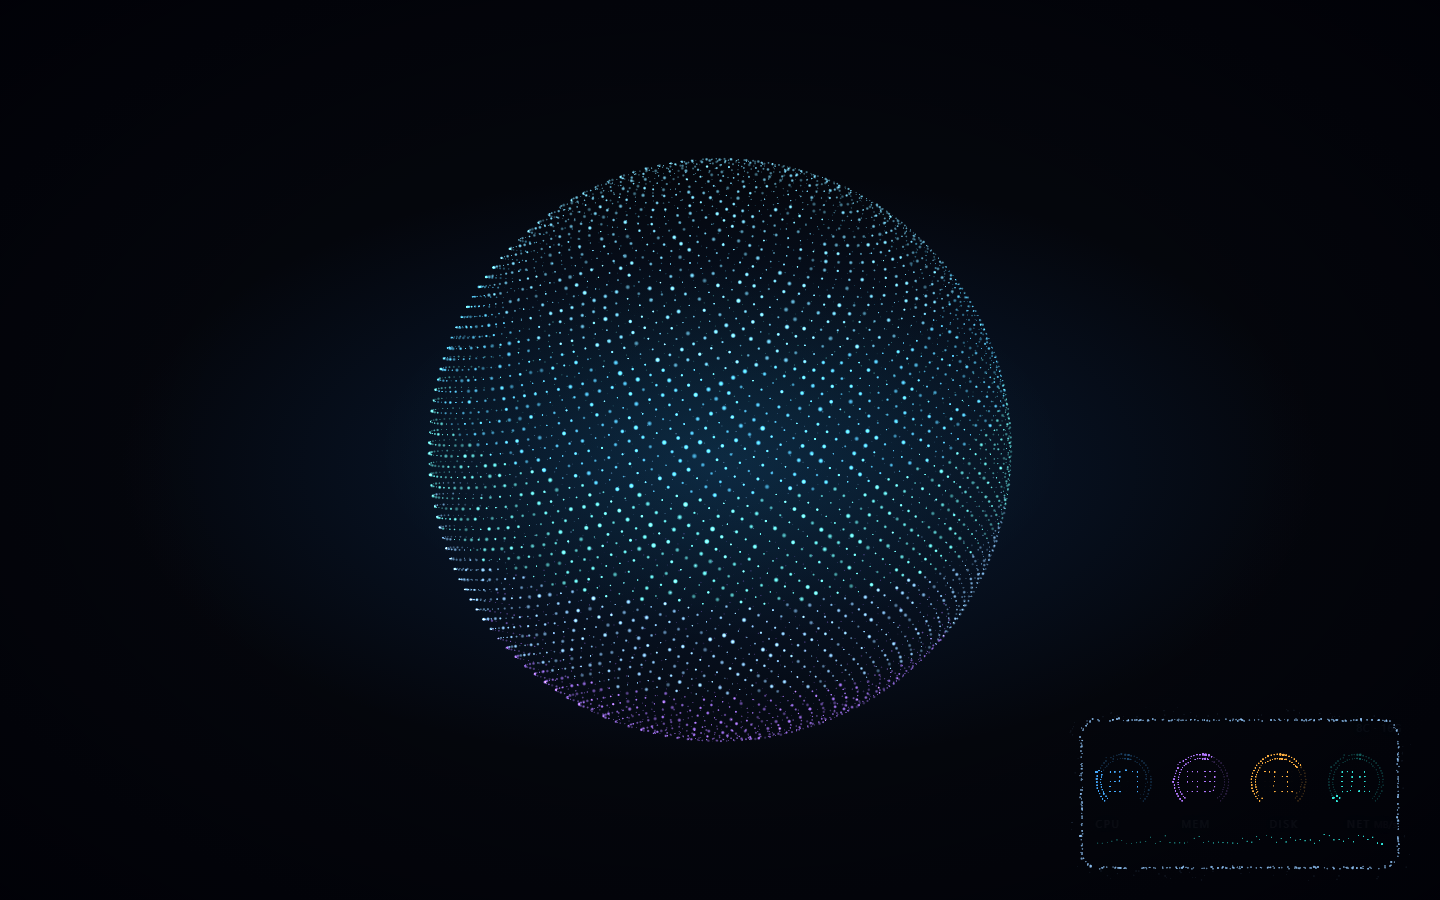
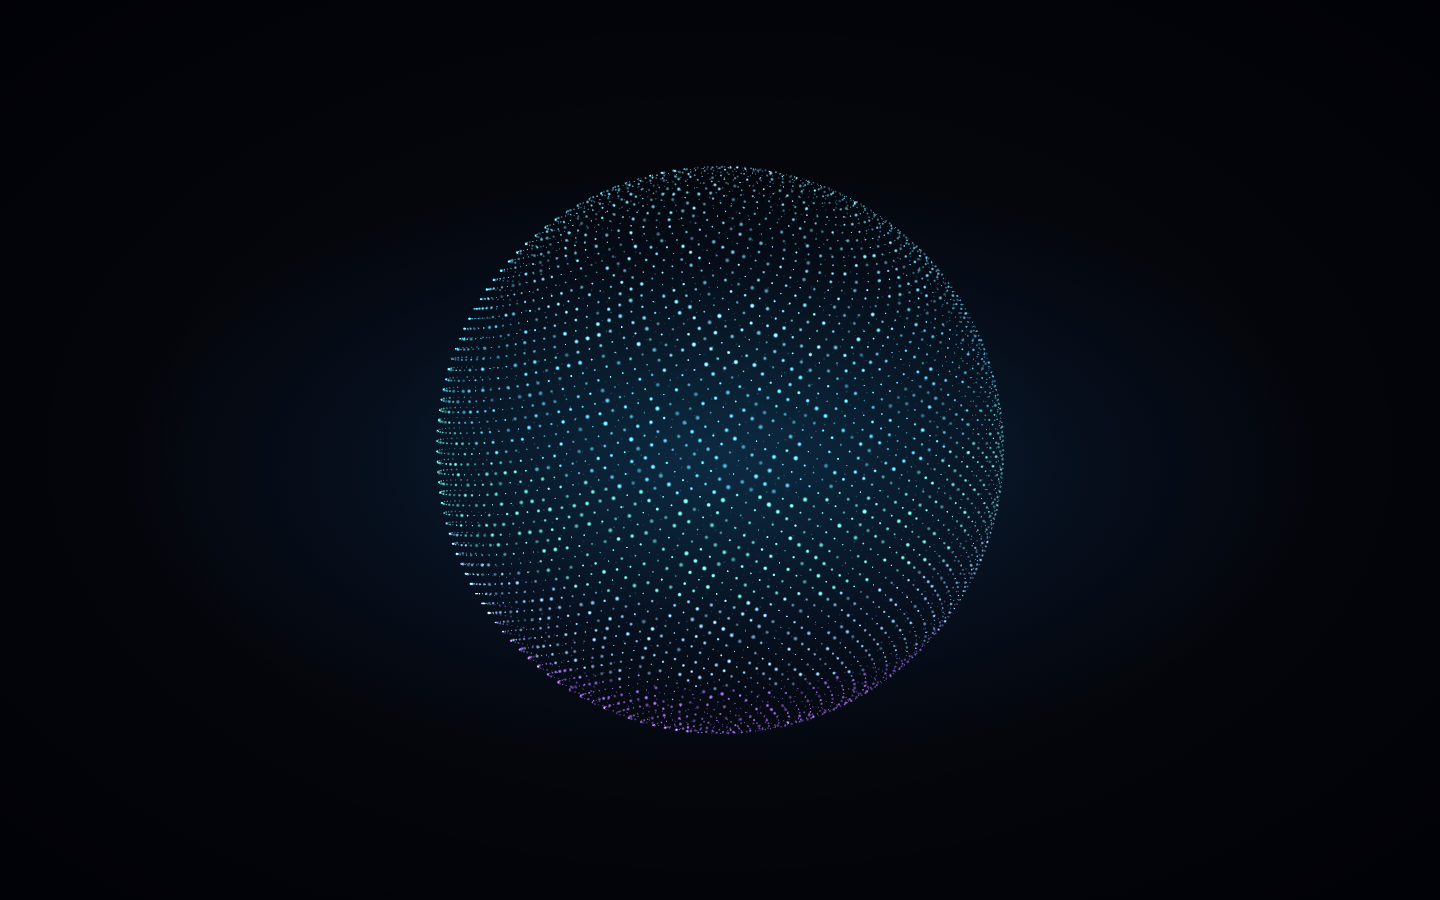
fix(shell): 画布 alpha 跟着累加，修 macOS 上看不到粒子
主层用 CustomBlending 做加法发光，但 blendSrcAlpha 设成了 ZERO —— 画布的 alpha
永远保持 0，"能不能看见"完全取决于浏览器怎么解释「预乘 alpha 且 alpha=0」：
Chrome（Windows / D3D11）把 RGB 直接加到底色上，所以一直正常；macOS 的
ANGLE/Metal 走规范路径，alpha=0 就是完全透明，整张画布消失（桌面只剩一块渐变背景）。

- blendSrcAlpha: ZERO → ONE：alpha 与 RGB 一起累加，任何后端都能正确合成（越亮越实）
- WebGL 上下文：high-performance 拿不到时退回默认配置再创建一次
- 粒子场初始化失败时给出可见提示（以前是静默失败，只剩一块背景）
- 新增 ?diag=1：左上角显示 gl / gpu / canvas / ctx / blend / fps，方便远程排查
- shots.mjs：桌面那张的光标从右下角挪开（168px 触发区会把状态面板展开进画面）

Changed region(s): [[0.2812, 0.1556, 0.7188, 0.84]]

diff --git a/shell/src/main.js b/shell/src/main.js
@@ -11,7 +11,19 @@ import { createLauncher } from './launcher.js';
 import { createStatus } from './status.js';
 import { myApps, gotoLogin, logout, terminusBase } from './api.js';
 
-const field = new Field(document.getElementById('scene'));
+/* WebGL 起不来时别静默失败：整个桌面就只剩一块渐变背景，没有任何报错。
+   （macOS 上曾有这个问题：画布 alpha 一直是 0，ANGLE/Metal 按规范当全透明处理。） */
+let field = null;
+try {
+  field = new Field(document.getElementById('scene'));
+} catch (e) {
+  console.error('[shell] 粒子场初始化失败', e);
+  const el = document.createElement('div');
+  el.id = 'fatal';
+  el.textContent = 'WebGL 初始化失败：' + (e && e.message ? e.message : e);
+  document.body.appendChild(el);
+  throw e;
+}
 const wins = new Map();          // group -> ShellWindow
 const freeGroups = [2, 1, 0];    // 后进先出，避免和已有窗口抢同一组粒子
 const boot = document.getElementById('boot');
@@ -248,3 +260,44 @@ window.addEventListener('keydown', (e) => {
     _esc();
   }
 });
+
+
+/* ------------------------------- 诊断 -------------------------------
+ * ?diag=1 在左上角摊开 WebGL 的真实情况 —— 专治"某个浏览器上看不到粒子"
+ * 这种没法远程复现的问题（尤其 macOS 的 ANGLE/Metal 和各家 GPU 驱动）。
+ * 只在显式带参数时出现，正常桌面一个字都没有。 */
+if (new URLSearchParams(location.search).has('diag')) {
+  const el = document.createElement('div');
+  el.id = 'diag';
+  document.body.appendChild(el);
+
+  const gl = field.renderer.getContext();
+  const dbg = gl.getExtension('WEBGL_debug_renderer_info');
+  let frames = 0;
+  let fps = 0;
+  const tick = () => { frames++; requestAnimationFrame(tick); };
+  requestAnimationFrame(tick);
+  setInterval(() => { fps = frames; frames = 0; }, 1000);
+
+  const rows = () => {
+    const ca = gl.getContextAttributes() || {};
+    const info = field.renderer.info;
+    return [
+      ['UA', navigator.userAgent],
+      ['viewport', `${innerWidth}×${innerHeight} @${devicePixelRatio}x`],
+      ['canvas', `${field.canvas.width}×${field.canvas.height} · css ${field.canvas.style.width}×${field.canvas.style.height}`],
+      ['gl', gl.getParameter(gl.VERSION)],
+      ['gpu', dbg ? gl.getParameter(dbg.UNMASKED_RENDERER_WEBGL) : '(no debug ext)'],
+      ['ctx', `alpha=${ca.alpha} premultiplied=${ca.premultipliedAlpha} depth=${ca.depth}`],
+      ['points', `${field.geo.attributes.position.count} 个顶点 · ${info.render.calls} draw calls`],
+      ['blend', `src=${field.mat.blendSrc} dst=${field.mat.blendDst} srcA=${field.mat.blendSrcAlpha}`],
+      ['fps', String(fps)],
+    ];
+  };
+
+  const paint = () => {
+    el.textContent = rows().map(([k, v]) => `${k.padEnd(9)}${v}`).join('\n');
+  };
+  paint();
+  setInterval(paint, 700);
+}

diff --git a/shell/src/field.js b/shell/src/field.js
@@ -461,15 +461,19 @@ export class Field {
       transparent: true,
       depthTest: false,
       depthWrite: false,
-      /* 纯加法发光 + 不写 alpha：
-       * 用 THREE.AdditiveBlending 时 alpha 也会被加满（每颗点写 1.0），
-       * 于是窗口里白底的 iframe 会被粒子"盖"成黑点 —— 这是加法混合最常见的坑。 */
+      /* 纯加法发光，但 **alpha 也要跟着累加**。
+       *
+       * 早先这里写的是 blendSrcAlpha: Zero —— 画布的 alpha 永远是 0，颜色全靠 RGB 累加。
+       * 那等于把"能不能看见"寄托在浏览器对「预乘 alpha 且 alpha=0」的宽容处理上：
+       * Chrome（D3D11）会直接把 RGB 加到底色上，所以看着正常；
+       * macOS 上的 ANGLE/Metal 走的是规范路径 —— alpha=0 就是完全透明，整张画布消失。
+       * 现在让 alpha 和 RGB 一起累加，任何后端都能正确合成（越亮越实）。 */
       blending: THREE.CustomBlending,
       blendEquation: THREE.AddEquation,
       blendSrc: THREE.OneFactor,
       blendDst: THREE.OneFactor,
       blendEquationAlpha: THREE.AddEquation,
-      blendSrcAlpha: THREE.ZeroFactor,
+      blendSrcAlpha: THREE.OneFactor,
       blendDstAlpha: THREE.OneFactor,
     });
 
@@ -533,7 +537,15 @@ export class Field {
     this.scene.add(this.railPoints);
     this.scene.add(this.statPoints);
 
-    this.renderer = new THREE.WebGLRenderer({ canvas, antialias: false, alpha: true, powerPreference: 'high-performance' });
+    /* 有些驱动（macOS 双显卡 / 虚拟机）在显式要"高性能"时反而拿不到上下文，
+       直接退回默认配置再试一次 —— 页面完全起不来比掉几帧严重得多。 */
+    const opts = { canvas, antialias: false, alpha: true };
+    try {
+      this.renderer = new THREE.WebGLRenderer({ ...opts, powerPreference: 'high-performance' });
+    } catch (e) {
+      console.warn('[field] high-performance 上下文创建失败，退回默认', e);
+      this.renderer = new THREE.WebGLRenderer(opts);
+    }
     this.renderer.setClearColor(0x000000, 0);
 
     this.cam = new THREE.OrthographicCamera(-1, 1, 1, -1, -2000, 2000);

diff --git a/shell/src/style.css b/shell/src/style.css
@@ -277,3 +277,24 @@ body.launching .stat-zone { display: none; }
 }
 body.launching .rail-zone { display: none; }
 
+
+/* 诊断面板（只在 ?diag=1 时出现，正常桌面没有） */
+#diag {
+  position: fixed; left: 12px; top: 12px; z-index: 40;
+  max-width: min(760px, calc(100vw - 24px));
+  padding: 10px 12px; border-radius: 10px;
+  background: rgba(4, 8, 16, .82);
+  border: 1px solid rgba(148, 178, 255, .22);
+  color: rgba(214, 232, 255, .92);
+  font: 11px/1.55 ui-monospace, SFMono-Regular, Menlo, Consolas, monospace;
+  white-space: pre-wrap; word-break: break-all;
+  pointer-events: none;
+}
+
+/* WebGL 起不来时的兜底提示（正常不会出现） */
+#fatal {
+  position: fixed; left: 50%; top: 50%; transform: translate(-50%, -50%); z-index: 50;
+  padding: 16px 20px; border-radius: 12px;
+  background: rgba(40, 8, 12, .9); border: 1px solid rgba(255, 92, 108, .5);
+  color: #ffd7dc; font-size: 13px; letter-spacing: .02em;
+}
